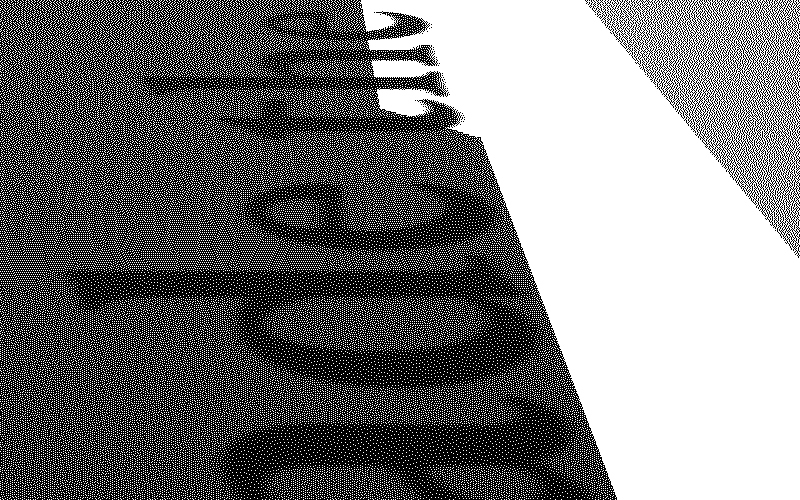
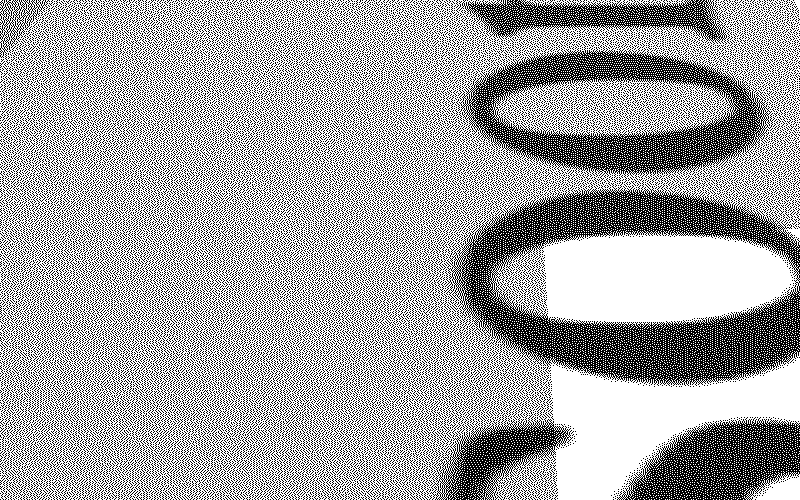
Ground view: lighter skylight, camera always where the most pathways cross
Claude-Session: https://claude.ai/code/session_01K5asSwsiws4qopijqkz6rv

diff --git a/prototypes/view3d.py b/prototypes/view3d.py
@@ -32,19 +32,36 @@ HW=0.26; TW=0.30; TH=0.40; EYE=0.30
 def rect(s,pad=HW):
     return (min(s['x0'],s['x1'])-pad,min(s['y0'],s['y1'])-pad,max(s['x0'],s['x1'])+pad,max(s['y0'],s['y1'])+pad)
 def inter(a,b): return a[0]<b[2] and b[0]<a[2] and a[1]<b[3] and b[1]<a[3]
-rs=[rect(s,0) for s in segs]; LOOK=7
-def tail(j):
-    s=segs[j];dx,dy=D[s['d']]; px,py=s['x1']-dx*LOOK,s['y1']-dy*LOOK
-    return (min(px,s['x1']),min(py,s['y1']),max(px,s['x1']),max(py,s['y1']))
-def ncross(j):
-    r=tail(j); return sum(1 for k,r2 in enumerate(rs) if abs(k-j)>1 and segs[k]['d']%2!=segs[j]['d']%2 and inter(r,r2))
-def clean(j):
-    s=segs[j];r=rect(s,0.1)
-    return not any(segs[k]['d']%2==s['d']%2 and inter(r,rect(segs[k],0.1)) for k in range(len(segs)) if k!=j)
-cands=[j for j,s in enumerate(segs) if s['n']>=LOOK+6 and clean(j)]
-scored=sorted(cands,key=lambda j:-ncross(j))
-cam=segs[scored[pick]]; dx,dy=D[cam['d']]
-ex,ey=cam['x1']-dx*(LOOK+2.2)+0.0137,cam['y1']-dy*(LOOK+2.2)+0.0113; yaw=math.atan2(dy,dx)
+# --- viewpoint: always where the most pathways cross the stretch ahead
+# exact crossings: every horizontal stroke against every vertical stroke (corridor width included)
+AHEAD=10
+Hs=[s for s in segs if s['d']%2==0]; Vs=[s for s in segs if s['d']%2==1]
+def arr(L,keys): return np.array([[s[k] for k in keys] for s in L],float)
+hA=arr(Hs,['x0','x1','y0','i']); vA=arr(Vs,['y0','y1','x0','i'])
+hlo,hhi=np.minimum(hA[:,0],hA[:,1]),np.maximum(hA[:,0],hA[:,1]); vlo,vhi=np.minimum(vA[:,0],vA[:,1]),np.maximum(vA[:,0],vA[:,1])
+cross={s['i']:[] for s in segs}
+m=HW*2
+for k in range(len(Hs)):
+    hit=(vA[:,2]>hlo[k]-m)&(vA[:,2]<hhi[k]+m)&(hA[k,2]>vlo-m)&(hA[k,2]<vhi+m)&(np.abs(vA[:,3]-hA[k,3])>1)
+    for j in np.nonzero(hit)[0]:
+        hs,vs=Hs[k],Vs[j]
+        cross[hs['i']].append(abs(vs['x0']-hs['x0']))   # distance along the horizontal stroke
+        cross[vs['i']].append(abs(hs['y0']-vs['y0']))   # distance along the vertical stroke
+best=[]
+for s in segs:
+    c=np.array(sorted(cross[s['i']]))
+    if len(c)==0 or s['n']<4: continue
+    for p in range(0,s['n']):
+        cnt=int(((c>p+0.6)&(c<=p+AHEAD)).sum())
+        if not np.any(np.abs(c-(p+0.3))<HW+0.05): best.append((cnt,s['i'],p))
+best.sort(key=lambda b:(-b[0],b[1]))
+seen=set();picks=[]
+for b_ in best:                      # one viewpoint per sentence
+    if b_[1] in seen: continue
+    seen.add(b_[1]);picks.append(b_)
+cnt,si,p=picks[pick]; cam=segs[si]; dx,dy=D[cam['d']]
+ex,ey=cam['x0']+dx*(p+0.3)+0.0137,cam['y0']+dy*(p+0.3)+0.0113; yaw=math.atan2(dy,dx)
+print("crossings ahead:",cnt)
 print("camera on sentence",cam['i'],"|",cam['text'][:140])
 R=22
 near=[s for s in segs if inter(rect(s,HW+TW),(ex-R-2,ey-R-2,ex+R+2,ey+R+2))]
@@ -146,10 +163,12 @@ L=lit(ox_,oy_,oz_).reshape(H,W)
 fx=(PX-(ex-R))*ppu; fy=((ey+R)-PY)*ppu; tx=np.clip(fx.astype(np.int32),0,N-2); ty=np.clip(fy.astype(np.int32),0,N-2)
 u=np.clip(fx-tx,0,1);v=np.clip(fy-ty,0,1);T_=tex.astype(np.float32)/255
 lettering=T_[ty,tx]*(1-u)*(1-v)+T_[ty,tx+1]*u*(1-v)+T_[ty+1,tx]*(1-u)*v+T_[ty+1,tx+1]*u*v
-alb=np.where(KIND==1,0.05+0.88*lettering,0.90)
+alb=np.where(KIND==1,0.03+0.95*lettering,0.96)
 lam=np.where(KIND==3,np.maximum(0,NX*sun[0]+NY*sun[1]),sun[2])
-AMB=0.20
-col=alb*(AMB+1.25*lam*L)
+AMB=0.62
+# skylight differs a little by face orientation, so walls keep their form in the shade
+sky_face=np.where(KIND==3,np.where(NX!=0,0.86,0.74),1.0)
+col=alb*(AMB*sky_face+0.75*lam*L)
 # sky: bright haze, glowing towards the sun
 r_=np.arange(H)[:,None];c_=np.arange(W)[None,:]
 vx_=np.cos(yaw-np.arctan((c_-W/2)/f));vy_=np.sin(yaw-np.arctan((c_-W/2)/f));vz_=(hor-r_)/f
@@ -157,7 +176,7 @@ nrm=np.sqrt(vx_**2+vy_**2+vz_**2);cosg=(vx_*sun[0]+vy_*sun[1]+vz_*sun[2])/nrm
 sky=0.86+0.14*np.clip(cosg,0,1)**8
 col=np.where(KIND==0,sky,col)
 dist=np.where(KIND==0,1e9,DEP*np.sqrt(1+((c_-W/2)/f)**2))
-Tr=np.exp(-dist/HAZE); HAZEC=0.93
+Tr=np.exp(-dist/HAZE); HAZEC=0.97
 col=col*Tr+HAZEC*(1-Tr)
 # light shafts: in-scattering where the haze is sunlit (coarse, upsampled)
 S6=6;cs,rs2=W//S6,H//S6;cc=np.arange(cs)*S6+3;rr=np.arange(rs2)*S6+3
@@ -175,7 +194,7 @@ for k in range(NS):
     Sc+=(tt<dep)*Lk*np.exp(-tt/HAZE)*phase*(R/NS)
 Sc=np.asarray(Image.fromarray(Sc).resize((W,H),Image.BILINEAR))
 col=col*(1-0.07*np.clip(Sc,0,8))+0.07*np.clip(Sc,0,8)*0.98
-img=np.clip(col,0,1)**1.1
+img=np.clip(col,0,1)**0.85
 @njit(cache=True)
 def fs(a):
     h,w=a.shape;o=np.zeros((h,w),np.uint8)

diff --git a/PLAN.md b/PLAN.md
@@ -208,6 +208,11 @@ A second kind of image, used where the 2D drawing becomes too dense to read
 - With finite, word-height walls the sky shows above them, and sunlight falls
   over the low words and into the pathway. Shadows step with the skyline of
   the sentence that casts them.
+- **It stays light inside the maze**: strong skylight fills the shade, so
+  shadowed floor is a light grey and the black lettering stays readable
+  everywhere. Wall faces get slightly different skylight by orientation, so
+  their form holds in the shade. Direct sun adds bright bands and patches on
+  top of that.
 - **Haze**: distance fades towards a bright haze tone, and the sunlit air
   scatters light towards the eye (forward scattering), so light shafts glow
   at the end of a pathway and in openings.
@@ -220,12 +225,17 @@ A second kind of image, used where the 2D drawing becomes too dense to read
 sun fixed per book, so the light is consistent between frames), and a 360°
 panorama at a junction across a spread.
 
-**Where the camera goes** (automatic candidates, then picked by hand)
-- A few words before a sentence ends, so the turn ahead is visible (the
-  sentiment turn seen from the ground). Ranked by how many pathways cross the
-  stretch ahead.
-- On the most-crossed sentence.
-- Inside a junction or a palimpsest.
+**Where the camera goes: always where the pathways cross most**
+- All crossings are computed exactly: every horizontal stroke against every
+  vertical stroke, corridor width included. Each crossing is recorded as a
+  position along both sentences.
+- Every word position of every sentence is a candidate viewpoint, facing the
+  reading direction. Its score is the number of crossings within the next 10
+  words. The camera never stands inside a crossing wall.
+- The top-ranked positions are used, one per sentence. These are usually
+  junctions: a crossing sentence runs across the floor at your feet, and
+  openings line up ahead. The highest-scoring views typically have 4–5
+  crossings ahead.
 - The 2D page marks every viewpoint with a small eye symbol and view cone,
   using the arrow rule (black, white over ink).
 

diff --git a/prototypes/README.md b/prototypes/README.md
@@ -12,6 +12,6 @@ Run them from the folder that contains `texts/`.
 |---|---|
 | `strokes.py texts/*.txt` | One stroke per sentence, fitted to A5 → `sentence_strokes_a5.png` |
 | `crossings.py texts/*.txt` | Crossings, crossing gaps, collinear overlaps, most-crossed sentence |
-| `view3d.py texts/7849.txt out.png [n] [sun_az] [sun_el] [haze]` | Ground view inside a pathway, with wall heights set by the words, sunlit through haze, 1-bit. n picks the n-th ranked viewpoint; sun azimuth is relative to the view direction → `ground_view_trial.png`, `ground_view_1bit_detail.png` (actual 1-bit pixels) |
+| `view3d.py texts/7849.txt out.png [n] [sun_az] [sun_el] [haze]` | Ground view inside a pathway, with wall heights set by the words, sunlit through haze, 1-bit. n picks the n-th ranked viewpoint (ranked by crossings ahead); sun azimuth is relative to the view direction → `ground_view_trial.png`, `ground_view_1bit_detail.png` (actual 1-bit pixels) |
 
 Also needed for `view3d.py`: `fonts/EBGaramond.ttf` (Google Fonts, SIL Open Font License), and `pip install numpy pillow numba`.
